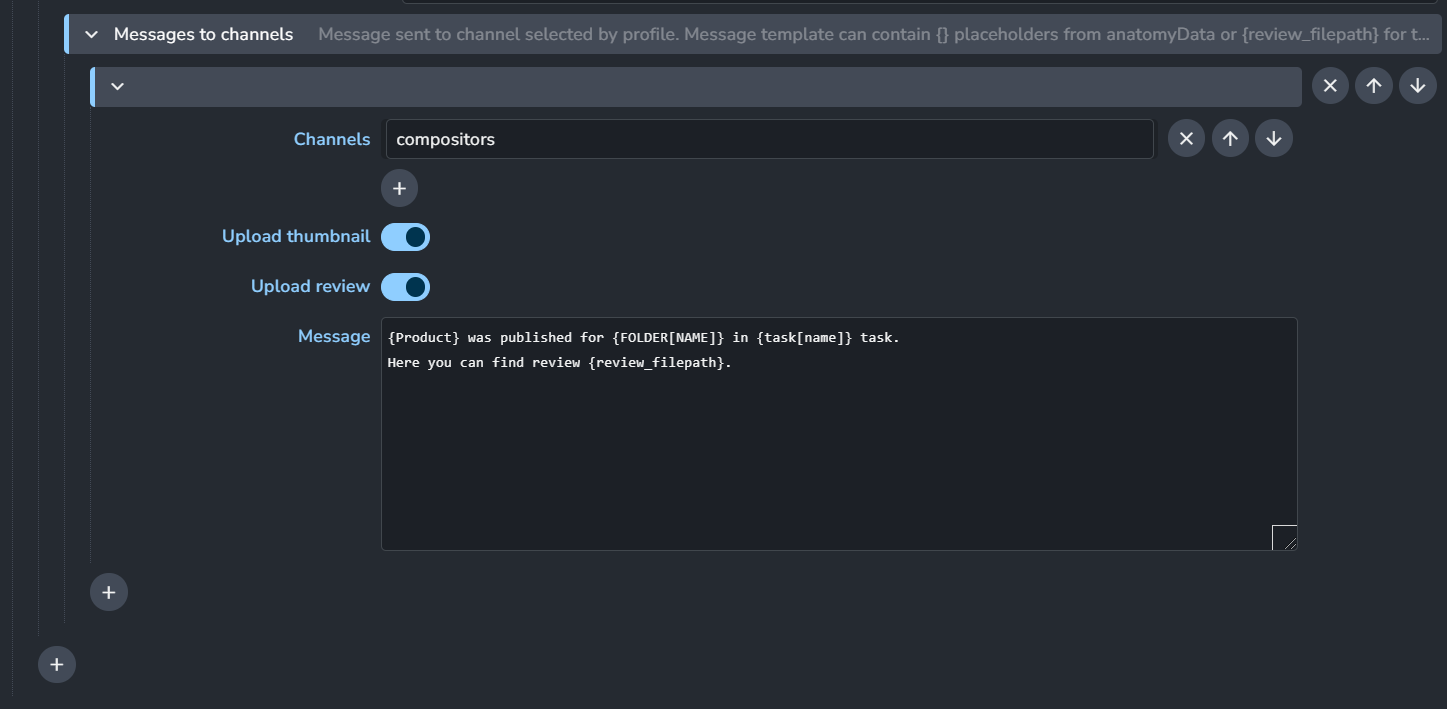
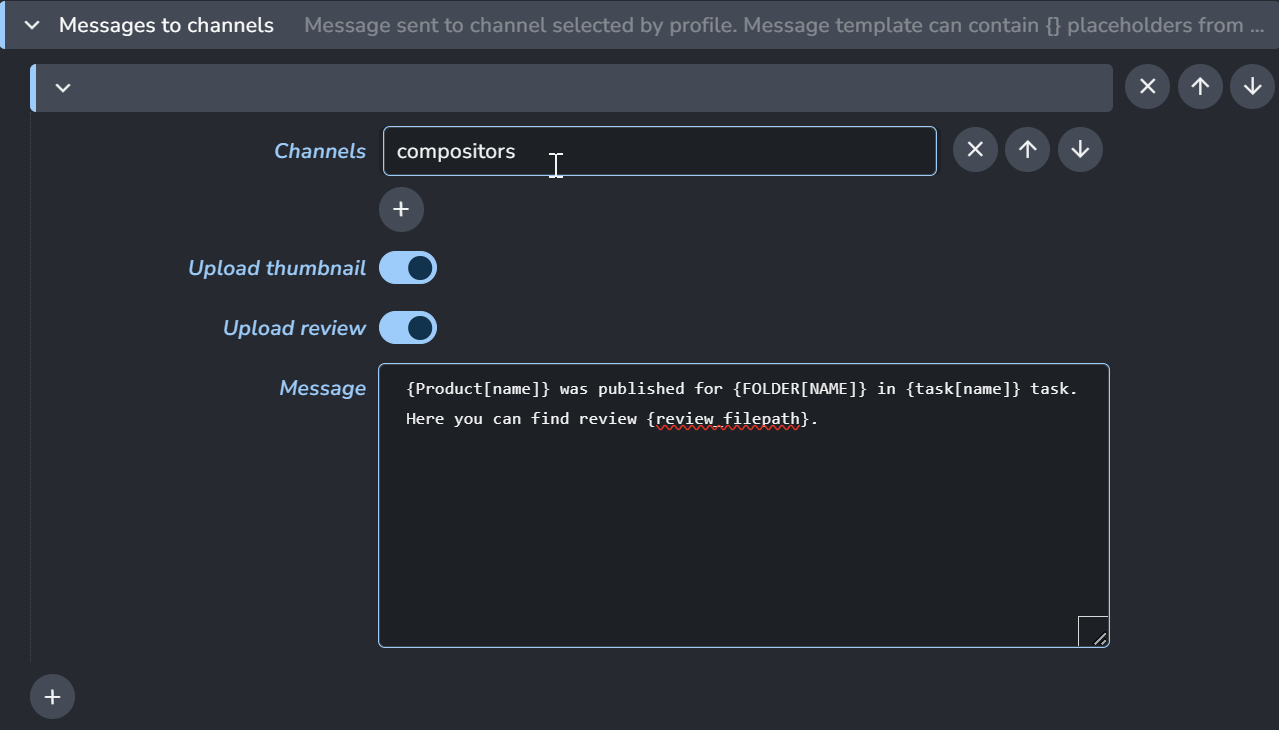
Fixed correct usage of Product placeholder

diff --git a/website/docs/addon_slack_admin.md b/website/docs/addon_slack_admin.md
@@ -149,7 +149,7 @@ Message content can use template keys (see [Available template keys](admin_setti
 Few keys also have Capitalized and UPPERCASE format. Values will be modified accordingly. e.g. `{Folder[name]}` ➜ "Gun", `{PRODUCT}` ➜ "RENDER".
 :::tip Message Example
   ```
-  {Product} was published for {FOLDER[NAME]} in {task[name]} task.
+  {Product[name]} was published for {FOLDER[NAME]} in {task[name]} task.
   Here you can find review {review_filepath}.
   ```
 :::
